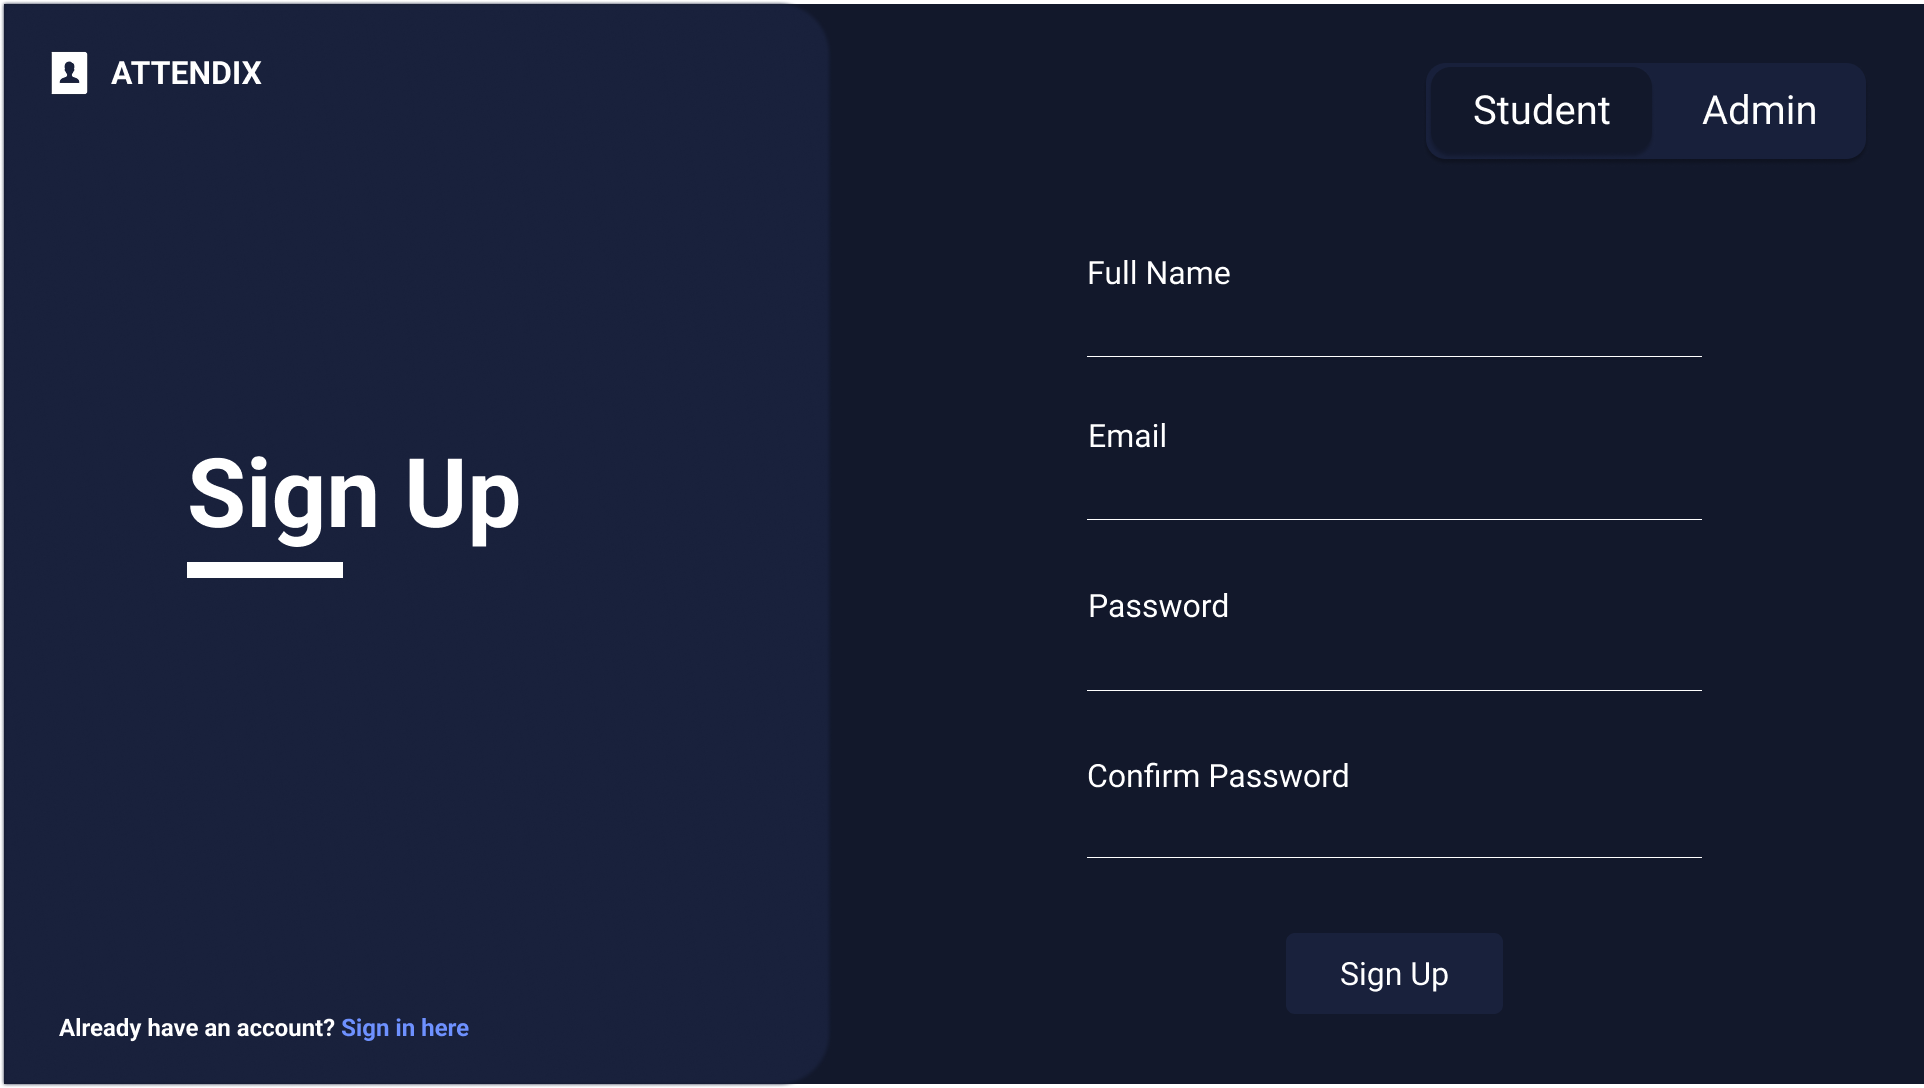
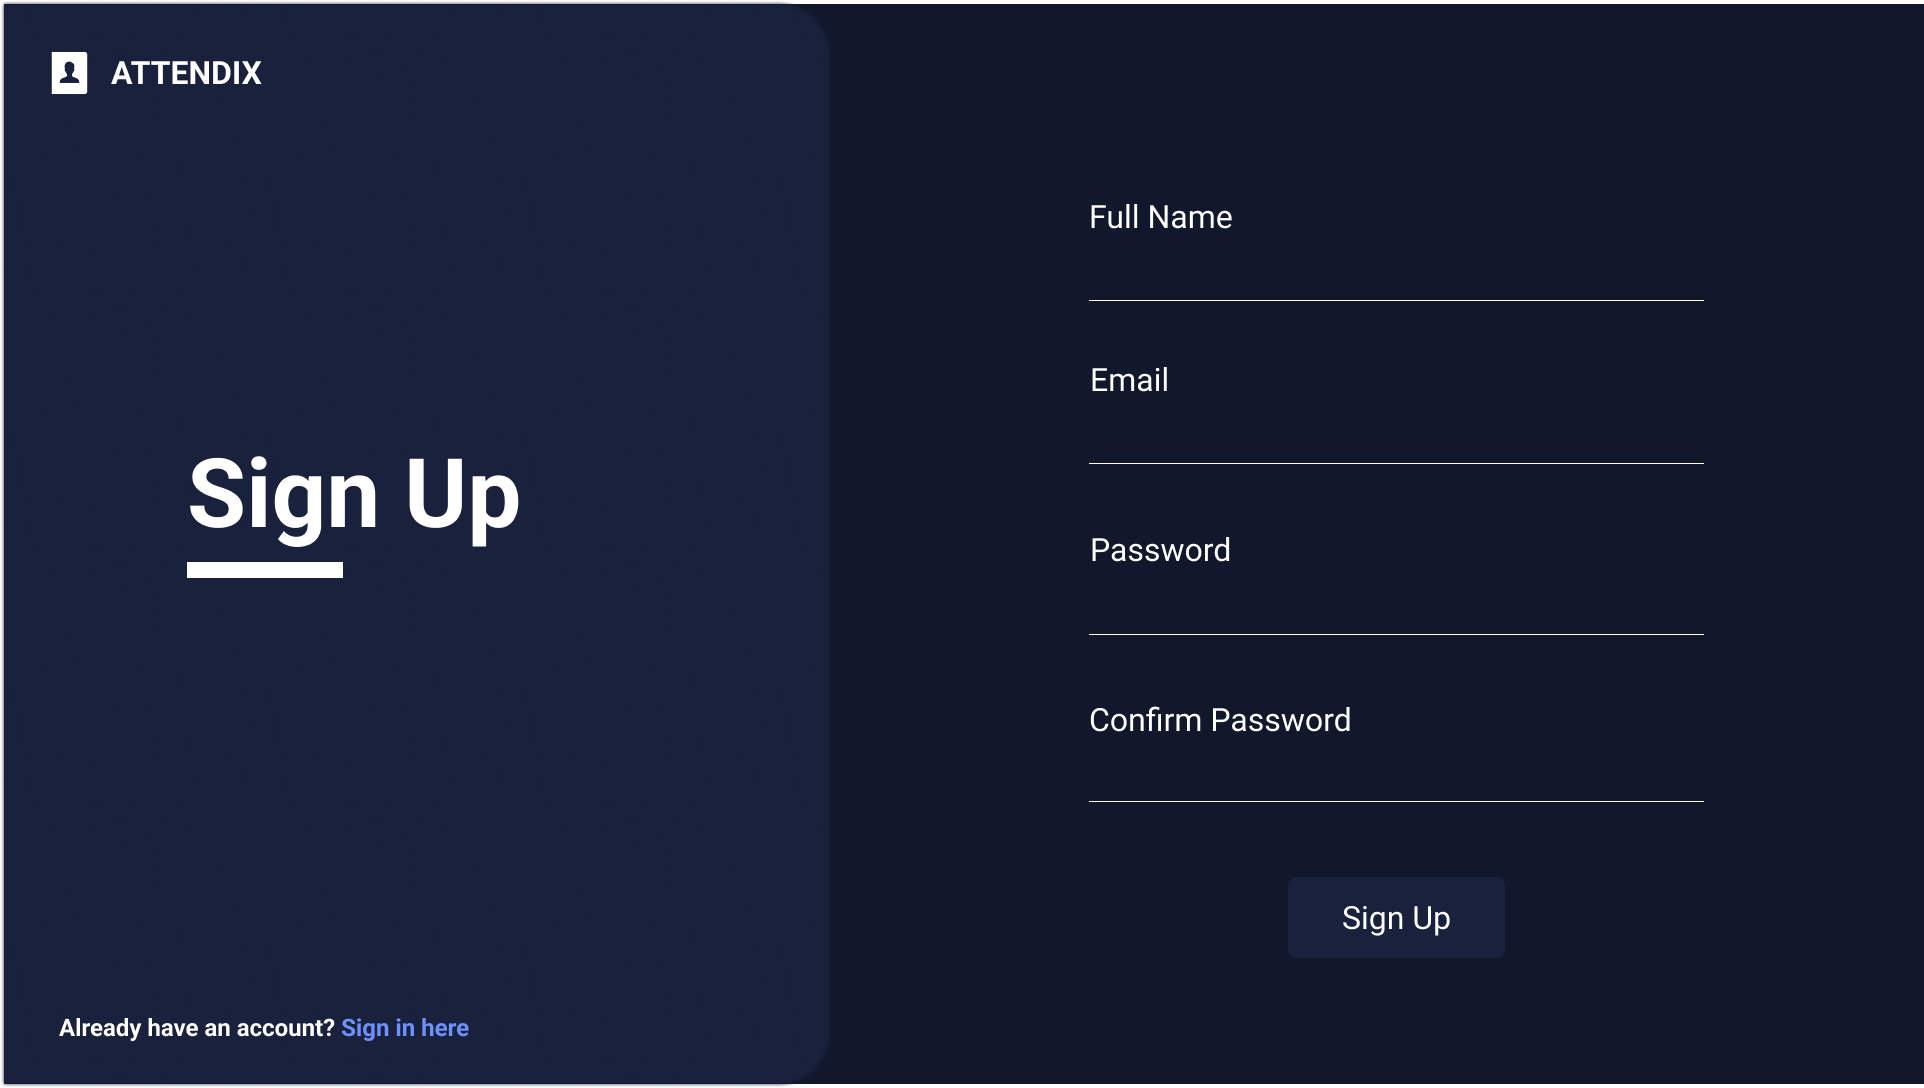
Register changes-removed manuall toggle of roles btw student and admin now we have to manually assign the user as admin

diff --git a/register.js b/register.js
@@ -35,9 +35,6 @@ function setLoading(loading) {
         : 'Create Account';
 }
 
-function getSelectedRole() {
-    return document.querySelector('input[name="role"]:checked').value;
-}
 
 form.addEventListener("submit", async (e) => {
     e.preventDefault();
@@ -47,7 +44,7 @@ form.addEventListener("submit", async (e) => {
     const email = emailInput.value.trim();
     const password = passwordInput.value;
     const confirmPassword = confirmPasswordInput.value;
-    const role = getSelectedRole();
+    const role = "student";
 
     // Validate passwords match
     if (password !== confirmPassword) {
@@ -75,14 +72,7 @@ form.addEventListener("submit", async (e) => {
 
         showSuccess("Account created successfully! Redirecting...");
 
-        // Redirect after short delay
-        setTimeout(() => {
-            if (role === "admin") {
-                window.location.href = "admin/admin.html";
-            } else {
-                window.location.href = "student/student.html";
-            }
-        }, 1500);
+        window.location.href = "student/student.html";
 
     } catch (error) {
         console.error("Registration error:", error);

diff --git a/register.html b/register.html
@@ -33,15 +33,6 @@
 
         <!-- Right Panel -->
         <div class="auth-right">
-            <!-- Role Toggle -->
-            <div class="role-toggle-container">
-                <div class="role-toggle-pill">
-                    <input type="radio" name="role" id="role-student" value="student" checked>
-                    <label for="role-student" class="role-btn">Student</label>
-                    <input type="radio" name="role" id="role-admin" value="admin">
-                    <label for="role-admin" class="role-btn">Admin</label>
-                </div>
-            </div>
 
             <div id="error-msg" class="alert alert-error" style="display: none;"></div>
             <div id="success-msg" class="alert alert-success" style="display: none;"></div>
